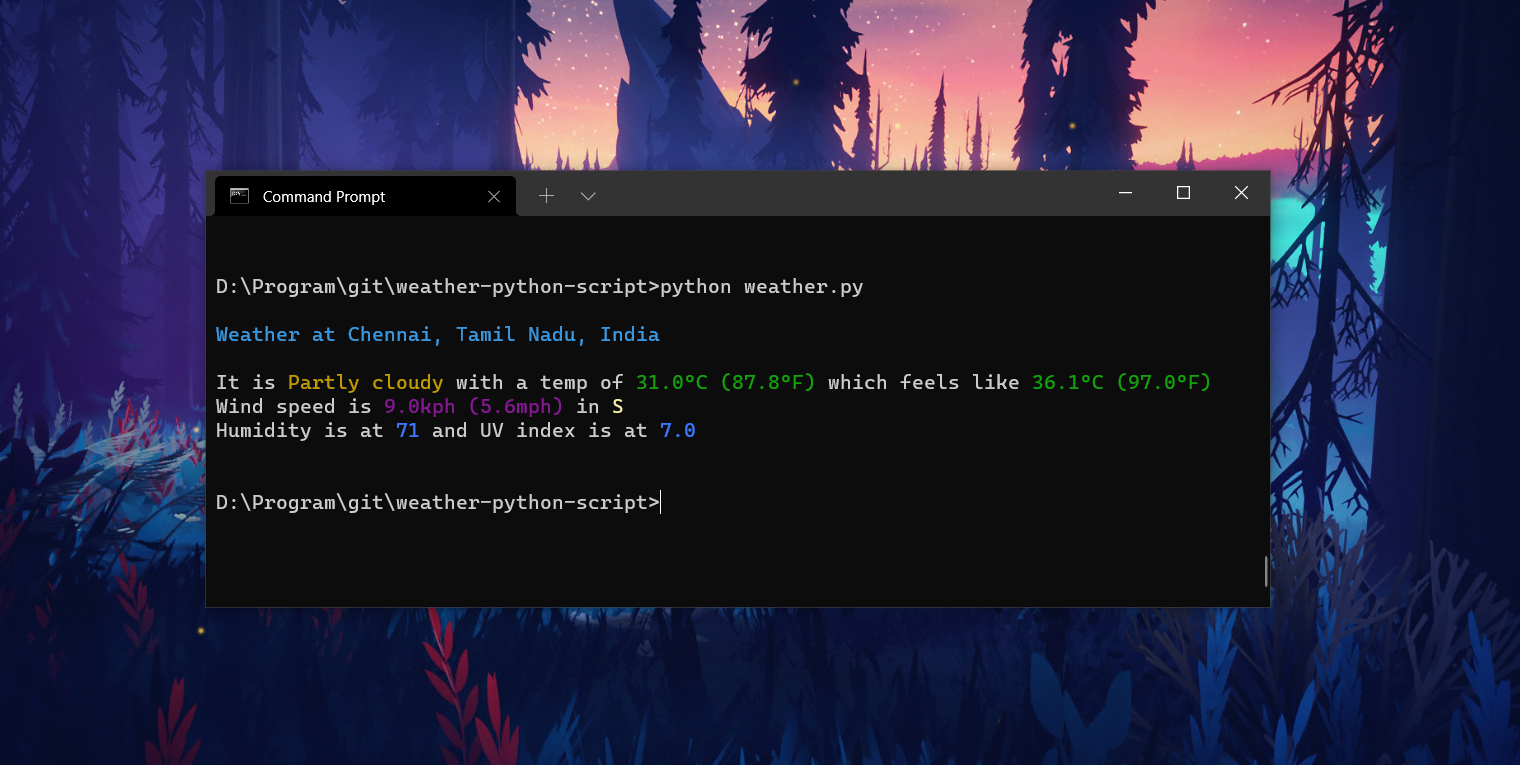
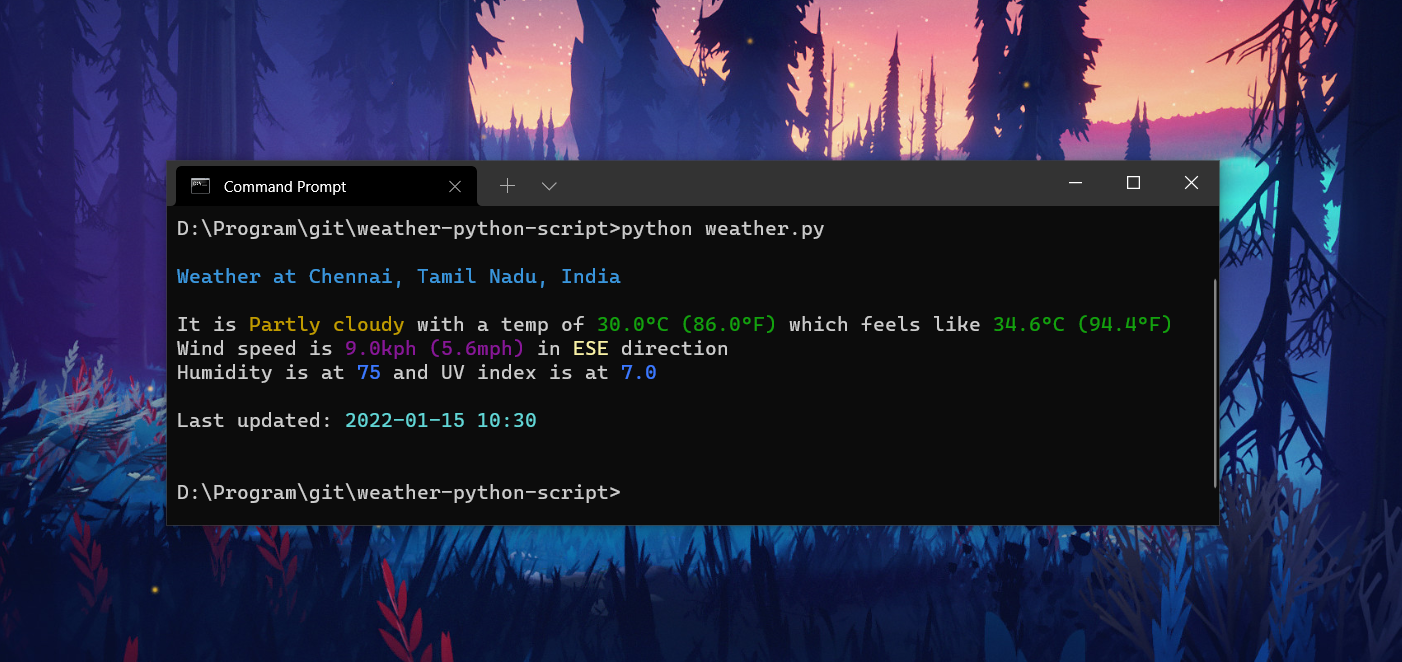
Update: Added last updated

diff --git a/weather.py b/weather.py
@@ -22,7 +22,7 @@ def process_response(response):
     '''
     Processes the json into python dictionary
     '''
-    return eval(eval(str(response.content)))
+    return eval(response.text)
 
 def get_location():
     '''
@@ -53,7 +53,7 @@ if __name__ == '__main__':
         print(f"{Fore.RED}Error: Internet Unavailable{Fore.RESET}")
         exit()
 
-    weather_request = requests.get(f"http://api.weatherapi.com/v1/current.json?key={WEATHER_API}&q={get_location()}&aqi=no")
+    weather_request = requests.get(f"http://api.weatherapi.com/v1/current.json?key={WEATHER_API}&q={'Chennai'}&aqi=no")
     weather_info = process_response(weather_request)
 
     if not api_valid(weather_info):
@@ -74,13 +74,16 @@ if __name__ == '__main__':
     feelslike_c = weather_info['current']['feelslike_c']
     feelslike_f = weather_info['current']['feelslike_f']
     uv = weather_info['current']['uv']
+    last_updated = weather_info['current']['last_updated']
 
     weather = f'''
 {Fore.CYAN}Weather at {location}, {region}, {country}{Fore.RESET}
 
 It is {Fore.YELLOW}{condition}{Fore.RESET} with a temp of {Fore.GREEN}{temp_c}°C ({temp_f}°F){Fore.RESET} which feels like {Fore.GREEN}{feelslike_c}°C ({feelslike_f}°F){Fore.RESET}
-Wind speed is {Fore.MAGENTA}{wind_kph}kph ({wind_mph}mph){Fore.RESET} in {Fore.LIGHTYELLOW_EX}{wind_dir}{Fore.RESET}
+Wind speed is {Fore.MAGENTA}{wind_kph}kph ({wind_mph}mph){Fore.RESET} in {Fore.LIGHTYELLOW_EX}{wind_dir}{Fore.RESET} direction
 Humidity is at {Fore.LIGHTBLUE_EX}{humidity}{Fore.RESET} and UV index is at {Fore.LIGHTBLUE_EX}{uv}{Fore.RESET}
+
+Last updated: {Fore.LIGHTCYAN_EX}{last_updated}{Fore.RESET}
 '''
 
     print(weather)
